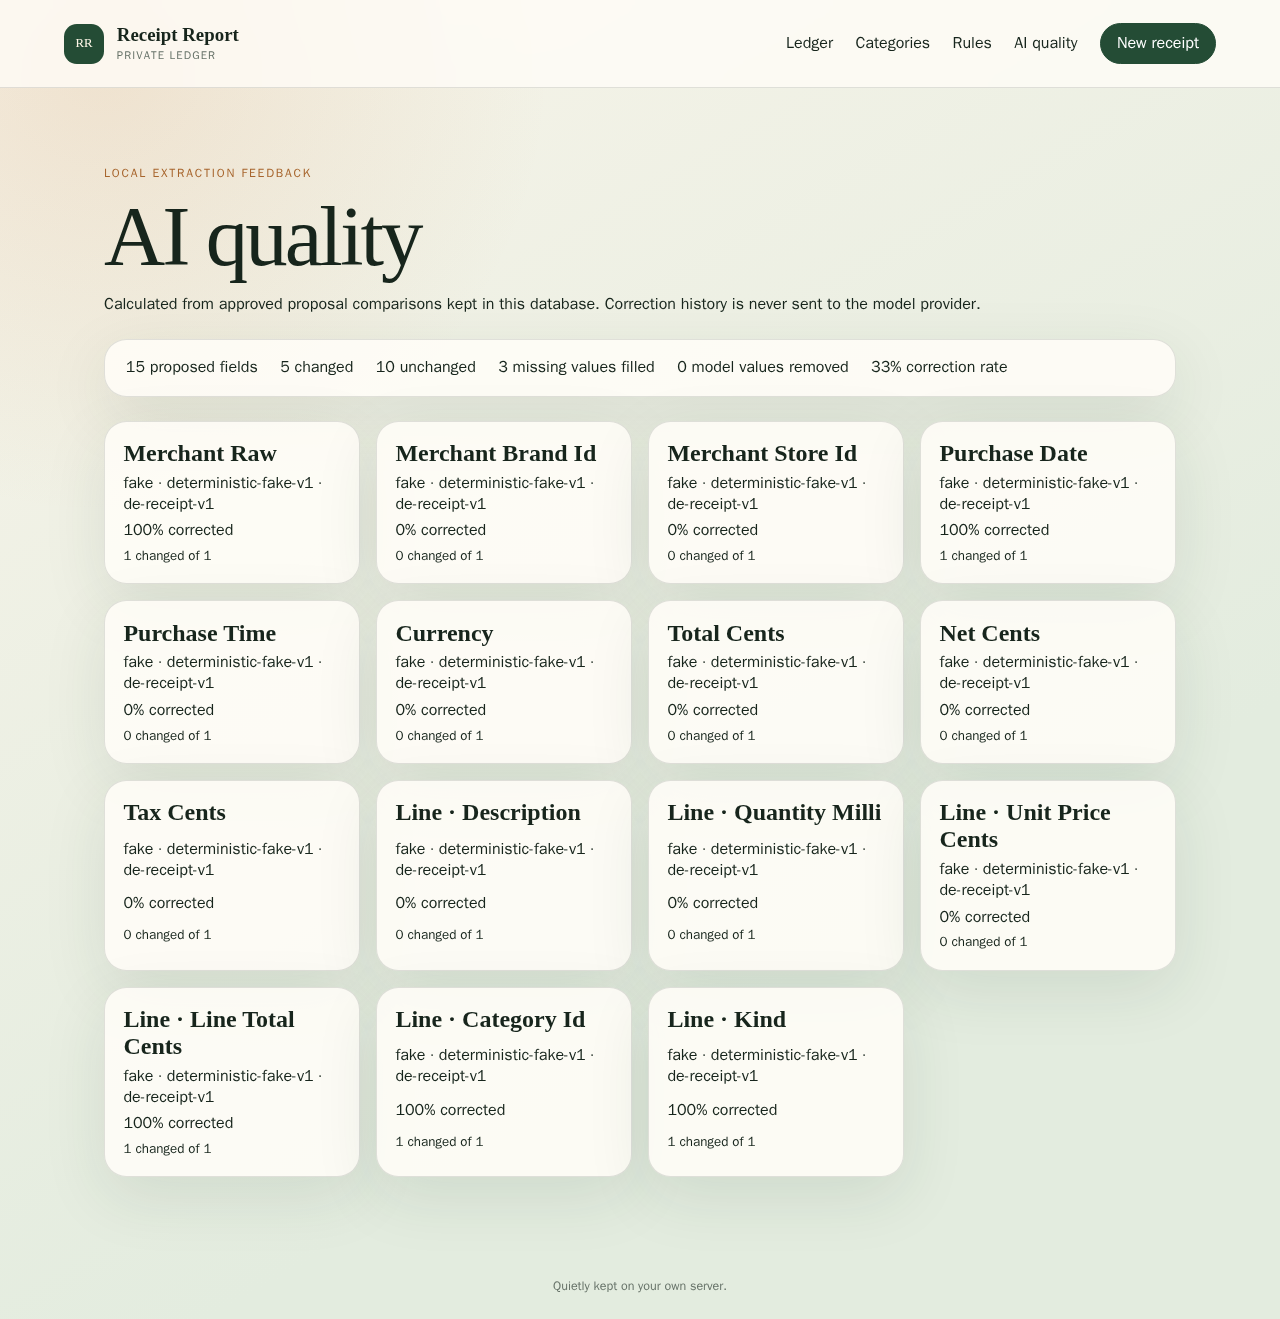
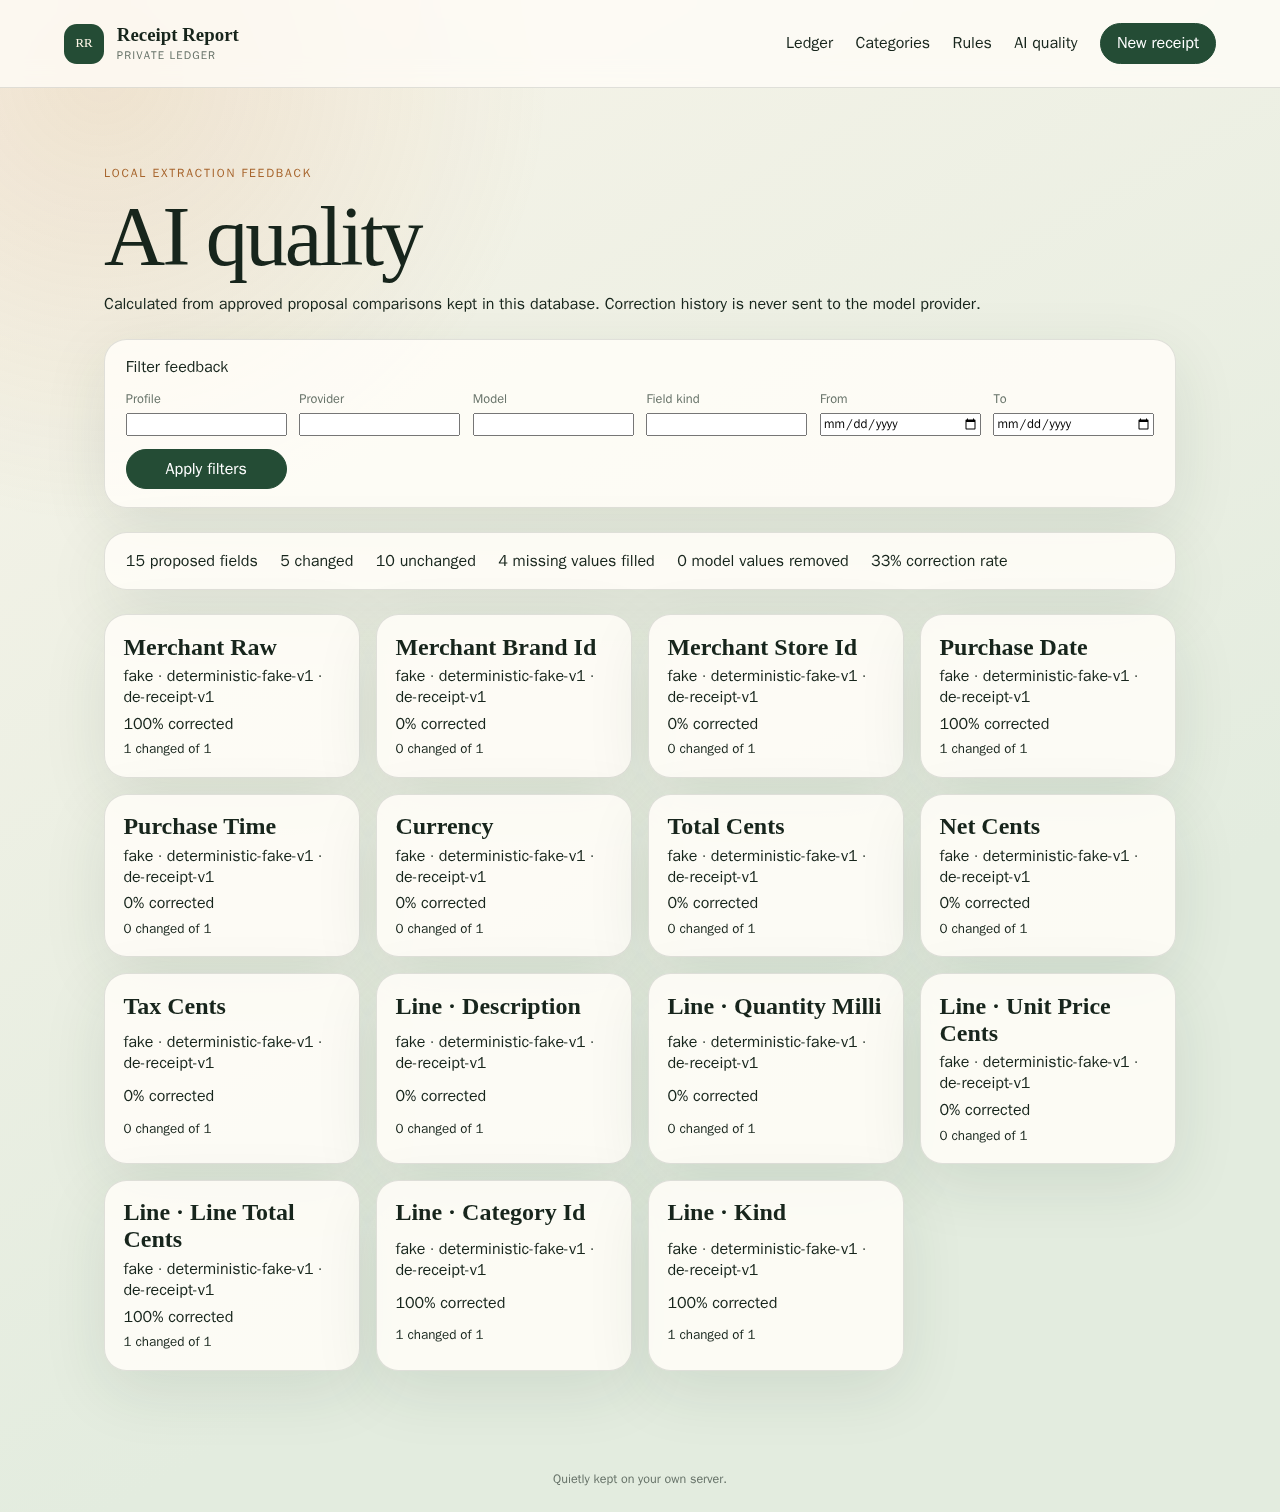
Fix correction provenance and quality semantics

diff --git a/apps/web/src/AIReviewPanel.tsx b/apps/web/src/AIReviewPanel.tsx
@@ -271,6 +271,9 @@ export function AIReviewPanel({
   const [categoryTouched, setCategoryTouched] = useState<Set<number>>(
     new Set(),
   );
+  const [categorySources, setCategorySources] = useState<
+    Map<number, "manual" | "exact_rule">
+  >(new Map());
   const messageRef = useRef<HTMLDivElement>(null);
   const dirty =
     !!draft && !!source && JSON.stringify(draft) !== JSON.stringify(source);
@@ -289,6 +292,7 @@ export function AIReviewPanel({
     setAcknowledged(new Set());
     setStale(false);
     setCategoryTouched(new Set());
+    setCategorySources(new Map());
   }, [lifecycle.proposal, proposalId, dirty]);
 
   const warningCodes = useMemo(
@@ -353,16 +357,20 @@ export function AIReviewPanel({
       quantityMilli: line.quantityMilli ? Number(line.quantityMilli) : null,
       unitPriceCents: line.unitPrice ? parseSignedMoney(line.unitPrice) : null,
       lineTotalCents: parseSignedMoney(line.lineTotal),
+      lineTotalConfidence:
+        lifecycle.proposal?.snapshot.lineItems[index]?.lineTotalConfidence ??
+        null,
       categoryId: line.categoryId,
       categorySuggestion:
         lifecycle.proposal?.snapshot.lineItems[index]?.categorySuggestion ??
         null,
       categoryProvenance:
-        line.categoryId !==
+        categorySources.get(index) ??
+        (line.categoryId !==
         lifecycle.proposal?.snapshot.lineItems[index]?.categoryId
           ? "manual"
           : (lifecycle.proposal?.snapshot.lineItems[index]
-              ?.categoryProvenance ?? null),
+              ?.categoryProvenance ?? null)),
       kind: line.kind,
     }));
     if (
@@ -790,6 +798,9 @@ export function AIReviewPanel({
                         }),
                         setCategoryTouched((current) =>
                           new Set(current).add(index),
+                        ),
+                        setCategorySources((current) =>
+                          new Map(current).set(index, "manual"),
                         )
                       )}
                     >
@@ -801,13 +812,15 @@ export function AIReviewPanel({
                   </label>
                   <small className="category-provenance">
                     Source:{" "}
-                    {categoryTouched.has(index)
+                    {categorySources.get(index) === "manual"
                       ? "manual edit"
-                      : proposed?.categoryProvenance === "exact_rule"
+                      : categorySources.get(index) === "exact_rule"
                         ? "exact local rule"
-                        : proposed?.categoryProvenance === "model"
-                          ? "model"
-                          : "unassigned"}
+                        : proposed?.categoryProvenance === "exact_rule"
+                          ? "exact local rule"
+                          : proposed?.categoryProvenance === "model"
+                            ? "model"
+                            : "unassigned"}
                   </small>
                   {categoryTouched.has(index) && line.categoryId && (
                     <button
@@ -847,6 +860,9 @@ export function AIReviewPanel({
                           }),
                           setCategoryTouched((current) =>
                             new Set(current).add(index),
+                          ),
+                          setCategorySources((current) =>
+                            new Map(current).set(index, "exact_rule"),
                           )
                         )}
                       >

diff --git a/apps/web/src/App.tsx b/apps/web/src/App.tsx
@@ -164,14 +164,29 @@ function ExtractionQuality() {
     typeof correctionQualitySummarySchema.parse
   > | null>(null);
   const [error, setError] = useState(false);
+  const [filterDraft, setFilterDraft] = useState({
+    profileVersion: "",
+    provider: "",
+    model: "",
+    fieldKind: "",
+    from: "",
+    to: "",
+  });
+  const [filters, setFilters] = useState(filterDraft);
   useEffect(() => {
-    void fetch("/api/v1/extraction-quality")
+    const parameters = new URLSearchParams(
+      Object.entries(filters).filter((entry) => entry[1]),
+    );
+    setError(false);
+    void fetch(
+      `/api/v1/extraction-quality${parameters.size ? `?${parameters}` : ""}`,
+    )
       .then(async (response) => {
         if (!response.ok) throw new Error("quality");
         setSummary(correctionQualitySummarySchema.parse(await response.json()));
       })
       .catch(() => setError(true));
-  }, []);
+  }, [filters]);
   return (
     <section aria-labelledby="quality-title">
       <p className="eyebrow">Local extraction feedback</p>
@@ -180,6 +195,49 @@ function ExtractionQuality() {
         Calculated from approved proposal comparisons kept in this database.
         Correction history is never sent to the model provider.
       </p>
+      <form
+        className="quality-filters panel"
+        onSubmit={(event) => {
+          event.preventDefault();
+          setSummary(null);
+          setFilters(filterDraft);
+        }}
+      >
+        <strong>Filter feedback</strong>
+        {(
+          [
+            ["profileVersion", "Profile"],
+            ["provider", "Provider"],
+            ["model", "Model"],
+            ["fieldKind", "Field kind"],
+          ] as const
+        ).map(([name, label]) => (
+          <label key={name}>
+            <span>{label}</span>
+            <input
+              value={filterDraft[name]}
+              onChange={(event) =>
+                setFilterDraft({ ...filterDraft, [name]: event.target.value })
+              }
+            />
+          </label>
+        ))}
+        {(["from", "to"] as const).map((name) => (
+          <label key={name}>
+            <span>{name === "from" ? "From" : "To"}</span>
+            <input
+              type="date"
+              value={filterDraft[name]}
+              onChange={(event) =>
+                setFilterDraft({ ...filterDraft, [name]: event.target.value })
+              }
+            />
+          </label>
+        ))}
+        <button className="button button--small" type="submit">
+          Apply filters
+        </button>
+      </form>
       {error && (
         <div className="panel state" role="alert">
           Quality feedback could not be loaded.

diff --git a/packages/receipt-ai/src/proposals.ts b/packages/receipt-ai/src/proposals.ts
@@ -34,6 +34,7 @@ export function extractionToProposal(
       quantityMilli: line.quantityMilli.value,
       unitPriceCents: line.unitPriceCents.value,
       lineTotalCents: line.lineTotalCents.value ?? 0,
+      lineTotalConfidence: line.lineTotalCents.confidence,
       categoryId: null,
       categorySuggestion: null,
       categoryProvenance: null,
@@ -221,6 +222,7 @@ export function correctionComparisons(
     sourcePosition: number | null,
     proposed: unknown,
     value: unknown,
+    proposedMissing = false,
   ) => {
     const same = JSON.stringify(proposed) === JSON.stringify(value);
     result.push({
@@ -229,7 +231,7 @@ export function correctionComparisons(
       sourcePosition,
       correctionKind: same
         ? "unchanged"
-        : empty(proposed) && !empty(value)
+        : (proposedMissing || empty(proposed)) && !empty(value)
           ? "missing_filled"
           : !empty(proposed) && empty(value)
             ? "value_removed"
@@ -249,7 +251,14 @@ export function correctionComparisons(
     "netCents",
     "taxCents",
   ] as const)
-    add(field, field, null, original[field], accepted[field]);
+    add(
+      field,
+      field,
+      null,
+      original[field],
+      accepted[field],
+      field === "totalCents" && original.totalConfidence === null,
+    );
   const count = Math.max(original.lineItems.length, accepted.lineItems.length);
   for (let position = 0; position < count; position++) {
     const before = original.lineItems[position];
@@ -268,6 +277,8 @@ export function correctionComparisons(
         position,
         before?.[field] ?? null,
         after?.[field] ?? null,
+        field === "lineTotalCents" &&
+          (before?.lineTotalConfidence ?? null) === null,
       );
   }
   return result;

diff --git a/apps/web/src/App.test.tsx b/apps/web/src/App.test.tsx
@@ -106,6 +106,18 @@ describe("application shell", () => {
       screen.getByRole("heading", { name: "Line · Category Id" }),
     ).toBeVisible();
     expect(screen.getByText("25% correction rate")).toBeVisible();
+    fireEvent.change(screen.getByLabelText("Model"), {
+      target: { value: "fake-v1" },
+    });
+    fireEvent.change(screen.getByLabelText("From"), {
+      target: { value: "2026-08-01" },
+    });
+    fireEvent.click(screen.getByRole("button", { name: "Apply filters" }));
+    await waitFor(() =>
+      expect(fetchMock).toHaveBeenLastCalledWith(
+        "/api/v1/extraction-quality?model=fake-v1&from=2026-08-01",
+      ),
+    );
     unmount();
     cleanup();
     fetchMock.mockResolvedValueOnce(new Response(null, { status: 503 }));

diff --git a/packages/receipt-ai/src/proposals.test.ts b/packages/receipt-ai/src/proposals.test.ts
@@ -307,5 +307,22 @@ describe("proposal validation", () => {
         correctionKind: "value_removed",
       }),
     );
+    const missingMoney = snapshot();
+    missingMoney.totalCents = 0;
+    missingMoney.totalConfidence = null;
+    firstLine(missingMoney).lineTotalCents = 0;
+    firstLine(missingMoney).lineTotalConfidence = null;
+    expect(correctionComparisons(missingMoney, snapshot())).toEqual(
+      expect.arrayContaining([
+        expect.objectContaining({
+          path: "totalCents",
+          correctionKind: "missing_filled",
+        }),
+        expect.objectContaining({
+          path: "lineItems.0.lineTotalCents",
+          correctionKind: "missing_filled",
+        }),
+      ]),
+    );
   });
 });

diff --git a/apps/web/src/AIReviewPanel.test.tsx b/apps/web/src/AIReviewPanel.test.tsx
@@ -313,7 +313,7 @@ describe("AI review panel", () => {
     expect(document.getElementById("proposal-line-0-categoryId")).toHaveValue(
       categoryId,
     );
-    expect(screen.getByText("Source: manual edit")).toBeVisible();
+    expect(screen.getByText("Source: exact local rule")).toBeVisible();
     const prompt = vi.spyOn(window, "prompt").mockReturnValue("global");
     vi.spyOn(window, "confirm").mockReturnValue(true);
     fireEvent.click(
@@ -380,6 +380,7 @@ describe("AI review panel", () => {
         lineItems: [
           {
             categoryId,
+            categoryProvenance: "exact_rule",
             kind: "item",
             quantityMilli: 1500,
             unitPriceCents: 125,

diff --git a/apps/web/src/styles.css b/apps/web/src/styles.css
@@ -1136,6 +1136,24 @@ progress {
   margin: 1.5rem 0;
   padding: 1.1rem 1.3rem;
 }
+.quality-filters {
+  display: grid;
+  grid-template-columns: repeat(auto-fit, minmax(9rem, 1fr));
+  gap: 0.8rem;
+  align-items: end;
+  margin: 1.5rem 0;
+  padding: 1.1rem 1.3rem;
+}
+.quality-filters > strong {
+  grid-column: 1 / -1;
+}
+.quality-filters label {
+  display: grid;
+  gap: 0.3rem;
+  color: var(--muted);
+  font-size: 0.8rem;
+  font-weight: 700;
+}
 .quality-buckets {
   display: grid;
   grid-template-columns: repeat(auto-fit, minmax(15rem, 1fr));

diff --git a/packages/contracts/src/index.ts b/packages/contracts/src/index.ts
@@ -593,6 +593,7 @@ export const proposalLineSchema = z
     quantityMilli: quantityMilliSchema.nullable(),
     unitPriceCents: signedEuroCentsSchema.nullable(),
     lineTotalCents: signedEuroCentsSchema,
+    lineTotalConfidence: z.number().min(0).max(1).nullable().optional(),
     categoryId: idSchema.nullable(),
     categorySuggestion: proposalCategorySuggestionSchema.nullable(),
     categoryProvenance: z
